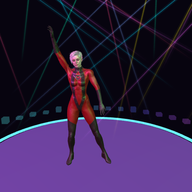
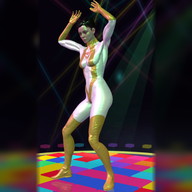
Add files via upload

diff --git a/sw.js b/sw.js
@@ -1,5 +1,5 @@
 // Mode hors ligne. Pour publier une mise à jour : change le numéro de version ci-dessous.
-const V = 'mojo-v17';
+const V = 'mojo-v18';
 const FILES = ['./', 'index.html', 'manifest.webmanifest', 'icon-192.png', 'icon-512.png', 'icon-maskable.png'];
 self.addEventListener('install', e => {
   e.waitUntil(caches.open(V).then(c => c.addAll(FILES)).then(() => self.skipWaiting()));
